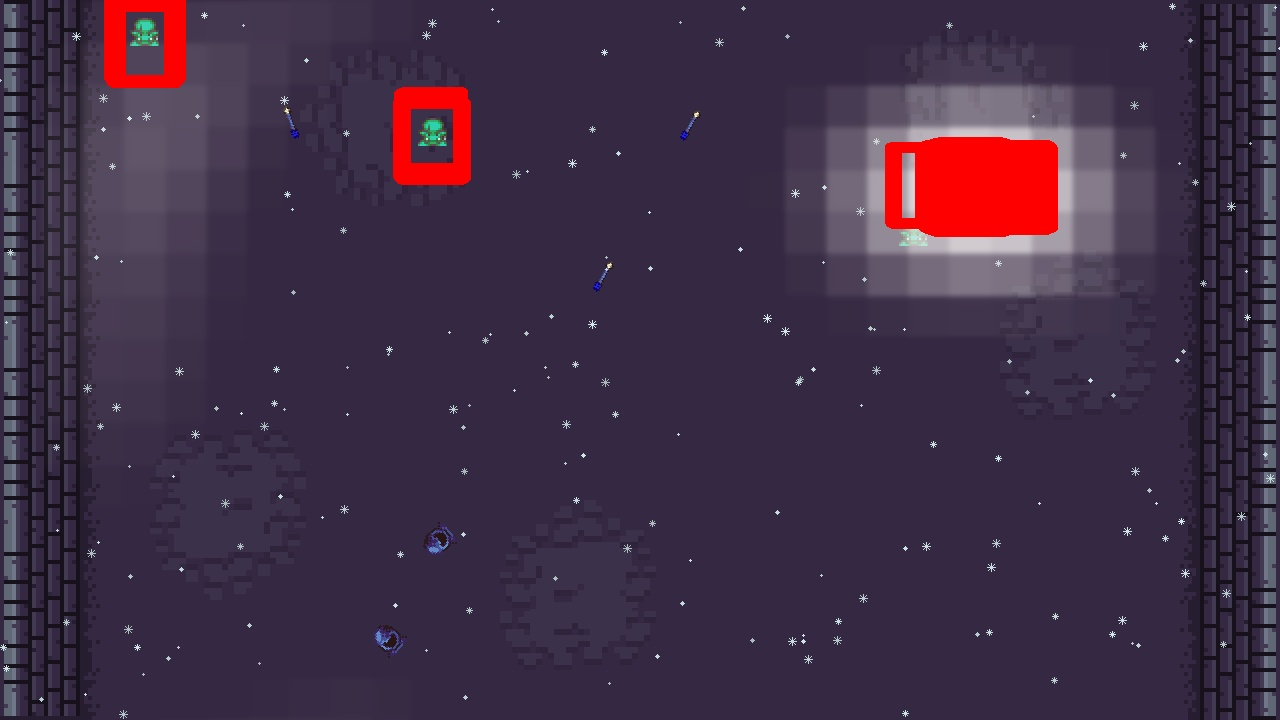
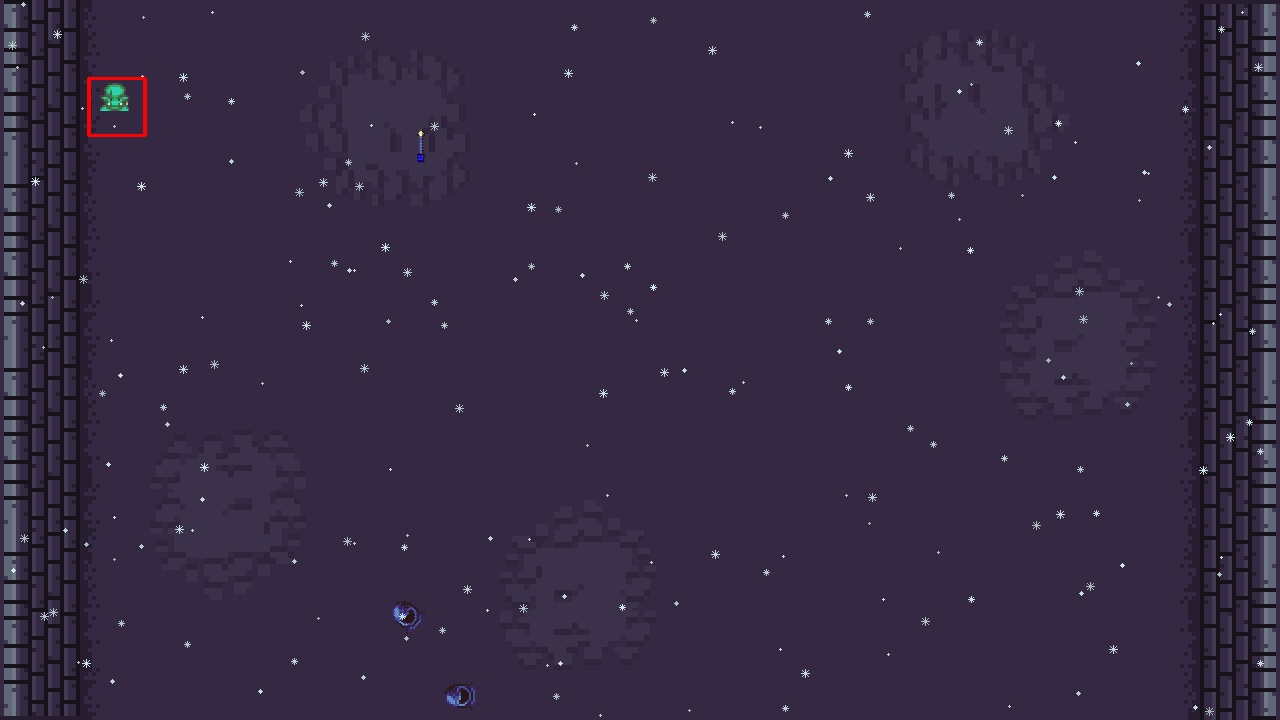
trajectories are plottable now

diff --git a/MatrixGames/game.py b/MatrixGames/game.py
@@ -9,8 +9,11 @@ class Game:
         self._u = u
         self._u_1 = u_1
         self._u_2 = u_2
-        self._alpha = 0.01
+        self._alpha = 0.0001
         self._player_list = []
+
+        self._trajectory_p1 = []
+        self._trajectory_p2 = []
 
     @property 
     def N(self): 
@@ -40,6 +43,18 @@ class Game:
     def u_2(self): 
 	    return self._u_2
     
+    def get_last_trajectories(self):
+         return self._trajectory_p1, self._trajectory_p2
+    
+    def empty_trajectories(self):
+         self._trajectory_p1.clear()
+         self._trajectory_p2.clear()
+
+    def reinit_strategies(self):
+         for player in self._player_list:
+            q1 = random.randint(1,10)
+            q2 = random.randint(1,10)
+            player._q_table = [q1,q2]
 
     
     def add_player(self,player):
@@ -69,6 +84,10 @@ class Game:
             #print(utility)
             for i in range(len(self._player_list)):
                 self._player_list[i].q_learning_update(moves_tuple[i],utility[i],self._alpha)
+                if i==0:
+                    self._trajectory_p1.append(self._player_list[i].strategy[0])
+                elif i==1:
+                    self._trajectory_p2.append(self._player_list[i].strategy[0])
             return utility
         
     
@@ -109,14 +128,14 @@ class Player:
     
     def make_random_move(self):
         number = np.random.uniform()
-        cumulative = self._strategy[0]
+        cumulative = 0
         index = 0
         while (cumulative<number):
             cumulative+=self._strategy[index]
+            if number < cumulative:
+                return index
             index+=1
-        if index > len(self._strategy)-1:
-             index-=1
-        return index
+        return len(self._strategy) - 1
 
     def q_learning_update(self, move, utility, alpha):
         self._q_table[move] = self._q_table[move]+alpha*(utility-self._q_table[move])
@@ -142,6 +161,11 @@ class BoltzmannPlayer(Player):
      def __init__(self, game, i,temperature):
         super().__init__(game,i)
         self._temperature = temperature
+        if len(super().strategy)==2:
+             q1 = random.randint(1,10)
+             q2 = random.randint(1,10)
+             self._q_table = [q1,q2]
+             
 
      @property 
      def temperature(self): 

diff --git a/template_matching.py b/template_matching.py
@@ -1,16 +1,27 @@
 import cv2
 import numpy as np
 
+def remove_clouds(frame):
+    mask = cv2.inRange(frame, (60,60,60), (255,255,255))
+    kernel = np.ones((7,7), np.uint8)
+    mask = cv2.morphologyEx(mask, cv2.MORPH_CLOSE, kernel)
+    result = cv2.inpaint(frame, mask, 5, cv2.INPAINT_TELEA)
+    return result
+
 #https://docs.opencv.org/3.4/d4/dc6/tutorial_py_template_matching.html
 def find_zombies(frame):
-    gray = cv2.cvtColor(frame, cv2.COLOR_BGR2GRAY)
+    clouds_removed = remove_clouds(frame)
+    cv2.imwrite("no_cluds.jpg", clouds_removed)
+    gray = cv2.cvtColor(clouds_removed, cv2.COLOR_BGR2GRAY)
     template = cv2.imread('template.png', cv2.IMREAD_GRAYSCALE)
     template = template.squeeze()
     print(template.shape)
     w, h = template.shape[::-1]
-    res = cv2.matchTemplate(gray,template,cv2.TM_CCOEFF_NORMED)
-    threshold = 0.4
-    loc = np.where( res >= threshold)
+
+    #res = cv2.matchTemplate(gray,template,cv2.TM_CCORR_NORMED)
+    res = cv2.matchTemplate(gray,template,cv2.TM_SQDIFF_NORMED)
+    threshold = 0.5
+    loc = np.where( res <= threshold)
     colored = frame
     for pt in zip(*loc[::-1]):
         cv2.rectangle(colored, pt, (pt[0] + w, pt[1] + h), (0,0,255), 2)

diff --git a/submission.py b/submission.py
@@ -5,7 +5,8 @@ import gymnasium
 from pettingzoo.utils import BaseWrapper
 from pettingzoo.utils.env import AgentID, ObsType
 from PIL import Image
-
+from ultralytics import YOLO
+import template_matching as tm
 
 class CustomWrapper(BaseWrapper):
     """
@@ -38,7 +39,7 @@ class CustomZombieDetectorFunction(Callable):
     """
 
     def __init__(self, env: gymnasium.Env):
-        pass
+        self._model =  YOLO("weights_vision/best(3).pt")
 
     def __call__(self, observation, *args, **kwargs):
         """Returns a matrix of shape (nb_zombies, nb_attributes), where
@@ -47,5 +48,14 @@ class CustomZombieDetectorFunction(Callable):
         likely to least likely positions. The evaluation uses the first k
         items if there are k zombies on the screen.
         """
-        pass
+        print(observation)
+        results = self._model.predict(observation,verbose=False)
+        matrix = []
+        b_boxes = results[0].boxes.xywh
+        for b_box in b_boxes:
+            real_center_x = b_box[0]+15
+            real_center_y = b_box[1]+15
+            matrix.append(real_center_x,real_center_y,30,30)
+
+        return matrix
 

diff --git a/MatrixGames/main.py b/MatrixGames/main.py
@@ -1,6 +1,7 @@
 import game
 import plots
 import numpy as np
+import matplotlib.pyplot as plt
 
 def main():
     print("Hello World!")
@@ -35,13 +36,20 @@ def main():
     stag_hunt.add_player(player1)
     stag_hunt.add_player(player2)
 
-    plots.show_replicator_dynamics_boltzmann(stag_hunt)
+    ax = plots.show_replicator_dynamics_boltzmann(stag_hunt)
     
-    for i in range(100000):
-        stag_hunt.play_round()
-        if i%1000==0:
-            print(player1.q_table)
-            print(player2.q_table)
+    for epoch in range(5):
+        for i in range(1000000):
+            stag_hunt.play_round()
+            if i%100000==0:
+                print(player1.q_table)
+                print(player2.q_table)
+        trajectory_p1, trajectory_p2 = stag_hunt.get_last_trajectories()
+        ax.plot(trajectory_p1,trajectory_p2,'r')
+        stag_hunt.empty_trajectories()
+        stag_hunt.reinit_strategies()
+
+    plt.show()
 
 
 if __name__ == "__main__":

diff --git a/evaluation.py b/evaluation.py
@@ -97,12 +97,11 @@ def evaluate(
 
         for agent in env.agent_iter():
             obs, reward, termination, truncation, info = env.last()
-            
             #data_generator.generate_one_data_point(env,step_count)
             #dg.draw_zombie_positions(env)
             #dg.draw_detected_zombies(env)
 
-            tm.find_zombies(obs)
+            #tm.find_zombies(obs)
 
             step_count += 1
 

diff --git a/data_generator.py b/data_generator.py
@@ -59,7 +59,7 @@ def draw_detected_zombies(env : Any):
 
         draw = ImageDraw.Draw(pil_image)
         draw.ellipse([real_center_x-5,real_center_y-5,real_center_x+5,real_center_y+5],fill ="#ffff33", outline ="red")
-    pil_image.save("zombie_detection_shown.jpg")
+    #pil_image.save("zombie_detection_shown.jpg")
     
 
 

diff --git a/MatrixGames/plots.py b/MatrixGames/plots.py
@@ -67,9 +67,9 @@ def show_replicator_dynamics_boltzmann(game : game.Game):
     fig, ax = plt.subplots()
     ax.quiver(P[::5,::5], Q[::5,::5], v1[::5,::5], v2[::5,::5],units='xy')
     ax.set_aspect('equal')
-
+    return ax
     # show plot
-    plt.show()
+    #plt.show()
     
     
 
